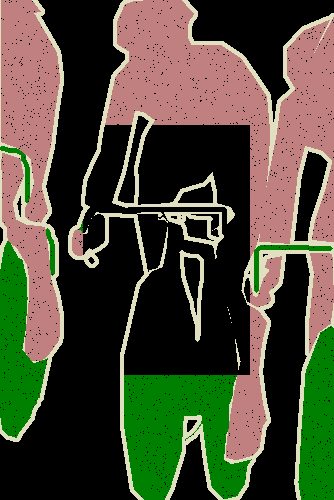
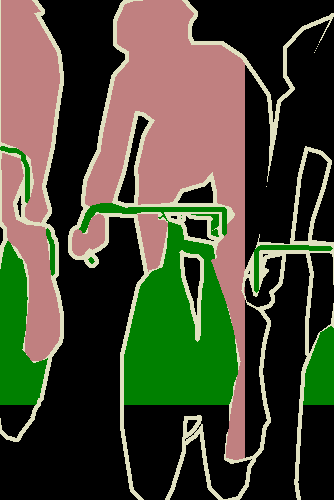
update masks

diff --git a/voc2012_10_images/SegmentationClassPredictions/README.md b/voc2012_10_images/SegmentationClassPredictions/README.md
@@ -1,9 +1,8 @@
-Synthetic prediction masks for semantic-segmentation evaluation testing.
-
-These files are derived from `../SegmentationClass` and intentionally altered:
-- partial foreground removal to background (class 0),
-- small spatial shifts for some masks,
-- class swaps in local regions for others,
-- sparse foreground pixel dropouts.
+Synthetic prediction masks derived from `../SegmentationClass` for
+semantic-segmentation evaluation testing.
+Augmentations applied:
+- **Masking out parts** — a chunk of an object is set to background.
+- **Spatial shifts** — some masks are translated by a few pixels.
+- **Class swap**
 
 Use this folder as prediction masks while `SegmentationClass` remains ground truth.
